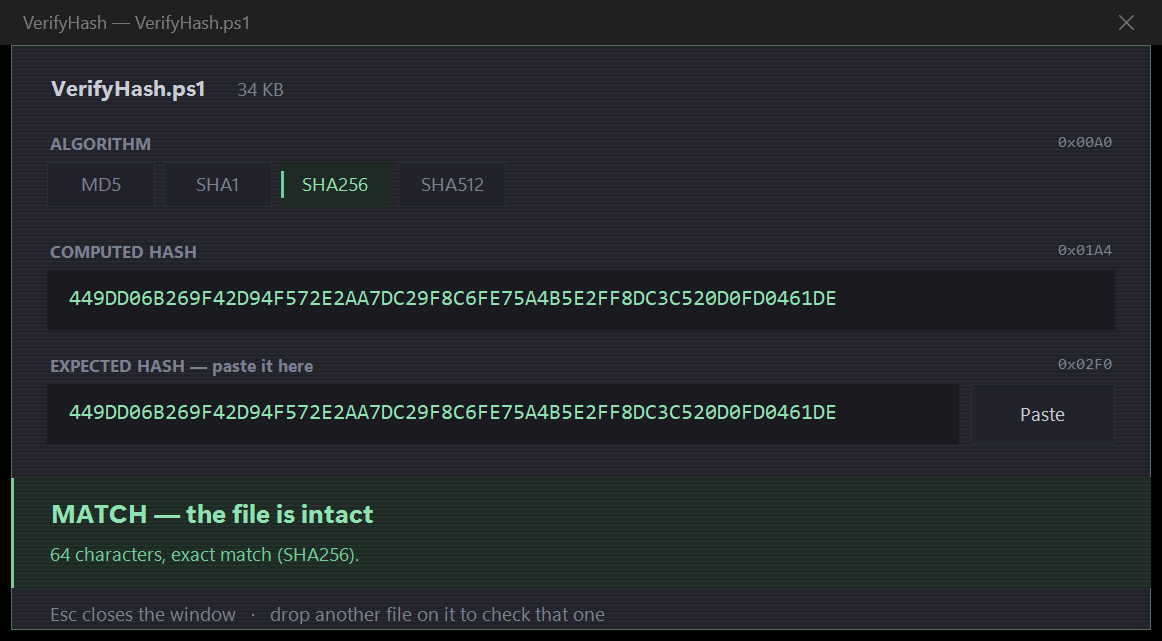
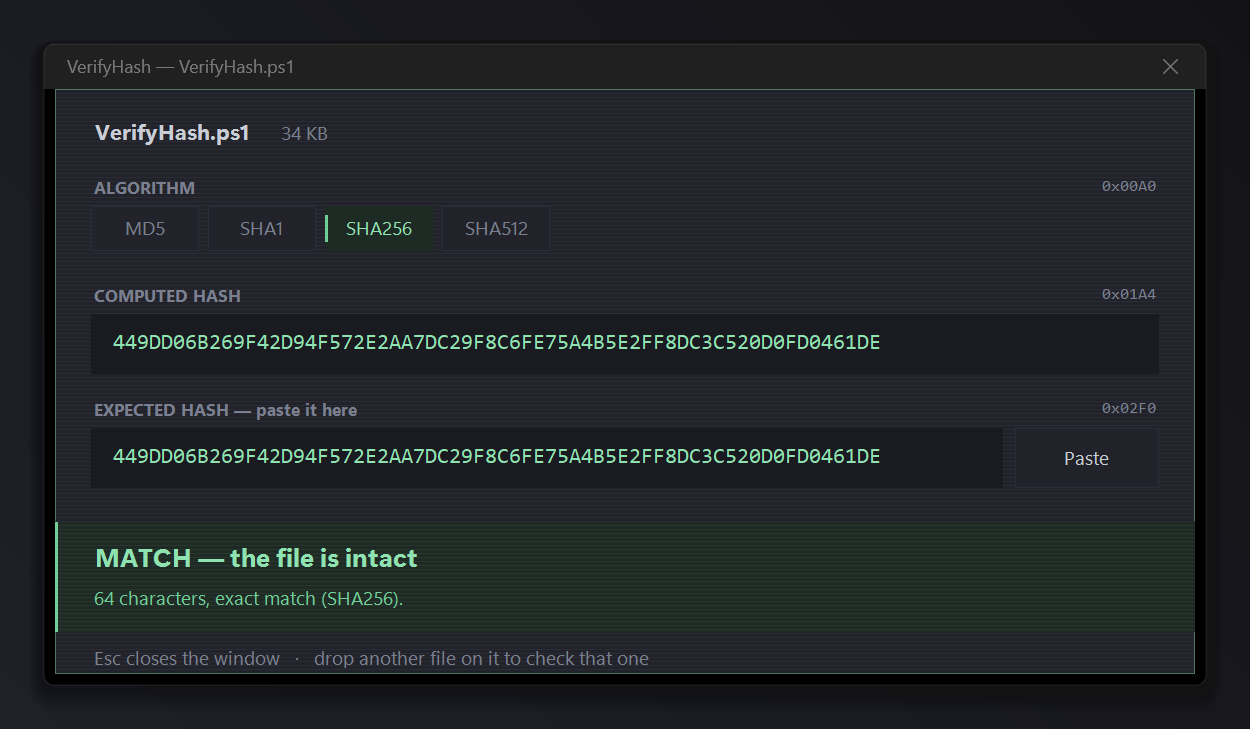
Rework the screenshots and lead with them
The context menu shot was a raw capture of this machine's menu: a French entry
list in the English README, other people's shell extensions, and a hard crop
through the middle of the menu. It is now drawn from the metrics measured on
the real Windows 11 menu - 36 px rows, text at x=54, #2C2C2C on a #3E3E3E
border - with the stock entries of a plain file and the PowerShell icon lifted
from the original capture, so the English and French versions each read in
their own language and show a whole menu.

Every image now sits on the same dark gradient backdrop, rounded with a soft
shadow, matching the other repositories.

Adds a second window shot for the mismatch case, where the differing
characters are highlighted in both fields, next to the bullet that describes
it. The context menu moves up next to the main shot at the top.

Changed region(s): [[0.0, 0.0312, 1.0, 1.0], [0.1549, 0.2808, 0.3408, 0.3432], [0.3718, 0.2808, 0.4337, 0.3432]]

diff --git a/README.fr.md b/README.fr.md
@@ -10,7 +10,9 @@ droits administrateur.
 ![PowerShell](https://img.shields.io/badge/PowerShell-5.1-5391FE)
 ![Licence](https://img.shields.io/badge/licence-MIT-green)
 
-<img src="docs/screenshot.png" alt="La fenêtre de vérification, avec un hash calculé et un hash attendu identiques" width="1162">
+<img src="docs/context-menu.fr.png" alt="Le menu contextuel de Windows avec l'entrée Vérifier le hash" width="380">
+
+<img src="docs/screenshot.png" alt="La fenêtre de vérification, avec un hash calculé et un hash attendu identiques" width="1000">
 
 ## Le problème
 
@@ -59,8 +61,6 @@ Ou clic droit sur le fichier → **Propriétés** → cocher **Débloquer** → 
 
 Clic droit sur n'importe quel fichier → **Vérifier le hash**.
 
-<img src="docs/context-menu.fr.png" alt="Le menu contextuel de Windows avec l'entrée Vérifier le hash" width="444">
-
 > Sous Windows 11, l'entrée se trouve dans le menu complet, derrière
 > **Afficher plus d'options** ou `Maj` + clic droit. Le menu compact de
 > Windows 11 n'accepte que des entrées fournies par une application
@@ -77,7 +77,9 @@ fait au fil de la saisie, il n'y a pas de bouton à valider.
   type `SHA256:` sont ignorés, la casse est normalisée — copier une ligne
   entière depuis une page de téléchargement fonctionne.
 - **Les écarts sont surlignés** dans les deux champs, avec leur position : de
-  quoi distinguer un copier-coller tronqué d'un fichier réellement différent.
+  quoi distinguer un copier-coller tronqué d'un fichier réellement différent :
+
+  <img src="docs/screenshot-mismatch.png" alt="La fenêtre de vérification avec six caractères en écart, surlignés en rouge dans les deux champs" width="1000">
 - **La fenêtre s'affiche immédiatement** et une barre suit la lecture du
   fichier, même sur plusieurs gigaoctets. Changer d'algorithme en cours de
   calcul annule et relance sans attendre.

diff --git a/README.md b/README.md
@@ -10,7 +10,9 @@ rights.
 ![PowerShell](https://img.shields.io/badge/PowerShell-5.1-5391FE)
 ![License](https://img.shields.io/badge/license-MIT-green)
 
-<img src="docs/screenshot.png" alt="The verification window showing a computed and an expected SHA-256 that match" width="1162">
+<img src="docs/context-menu.png" alt="The Windows context menu with a Verify hash entry" width="380">
+
+<img src="docs/screenshot.png" alt="The verification window showing a computed and an expected SHA-256 that match" width="1000">
 
 ## The problem
 
@@ -59,8 +61,6 @@ Or right-click the file → **Properties** → tick **Unblock** → OK.
 
 Right-click any file → **Verify hash**.
 
-<img src="docs/context-menu.png" alt="The Windows context menu with a Verify hash entry" width="444">
-
 > On Windows 11 the entry sits in the full menu, behind **Show more options**
 > or `Shift` + right-click. The compact Windows 11 menu only accepts entries
 > shipped as a packaged app, which a plain script cannot be.
@@ -76,7 +76,9 @@ runs as you type; there is no button to confirm.
   `SHA256:` are dropped, and the case is normalised — copying a whole line off
   a download page works.
 - **Differences are highlighted** in both fields, with their positions, so you
-  can tell a truncated paste from a genuinely different file.
+  can tell a truncated paste from a genuinely different file:
+
+  <img src="docs/screenshot-mismatch.png" alt="The verification window with six characters differing, highlighted in red in both fields" width="1000">
 - **The window appears instantly** and a progress bar moves while the file is
   read, even on several gigabytes. Switching algorithm mid-hash cancels and
   restarts immediately.
